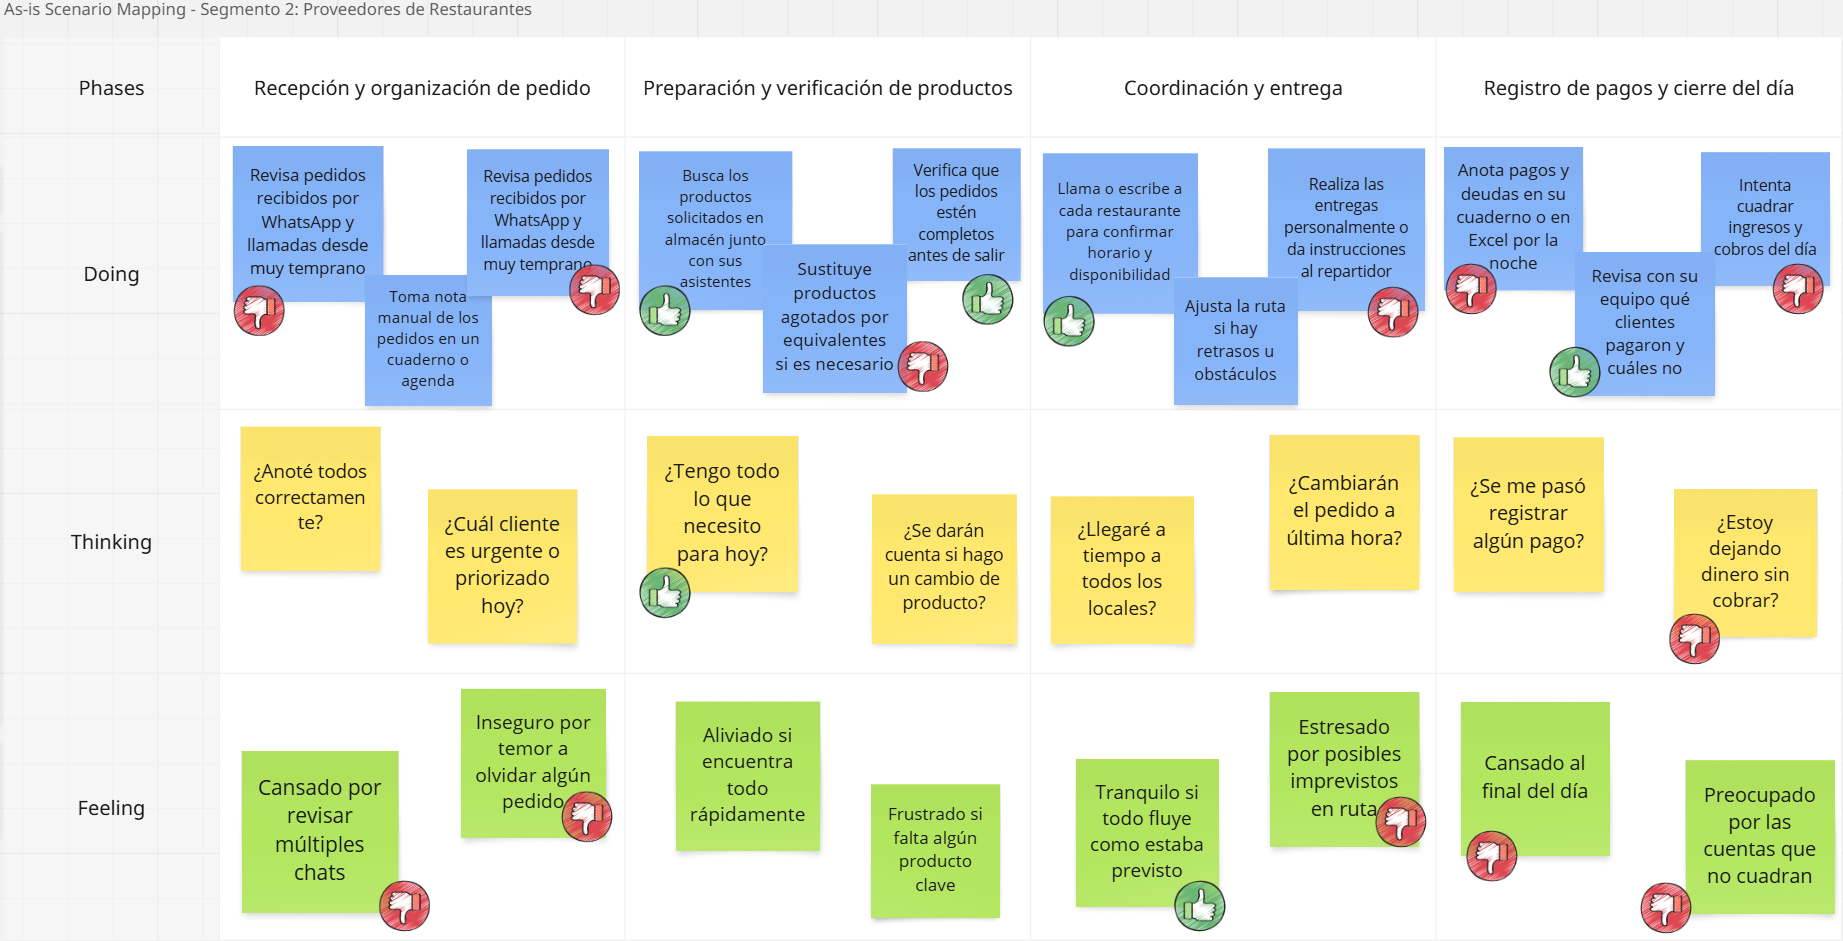
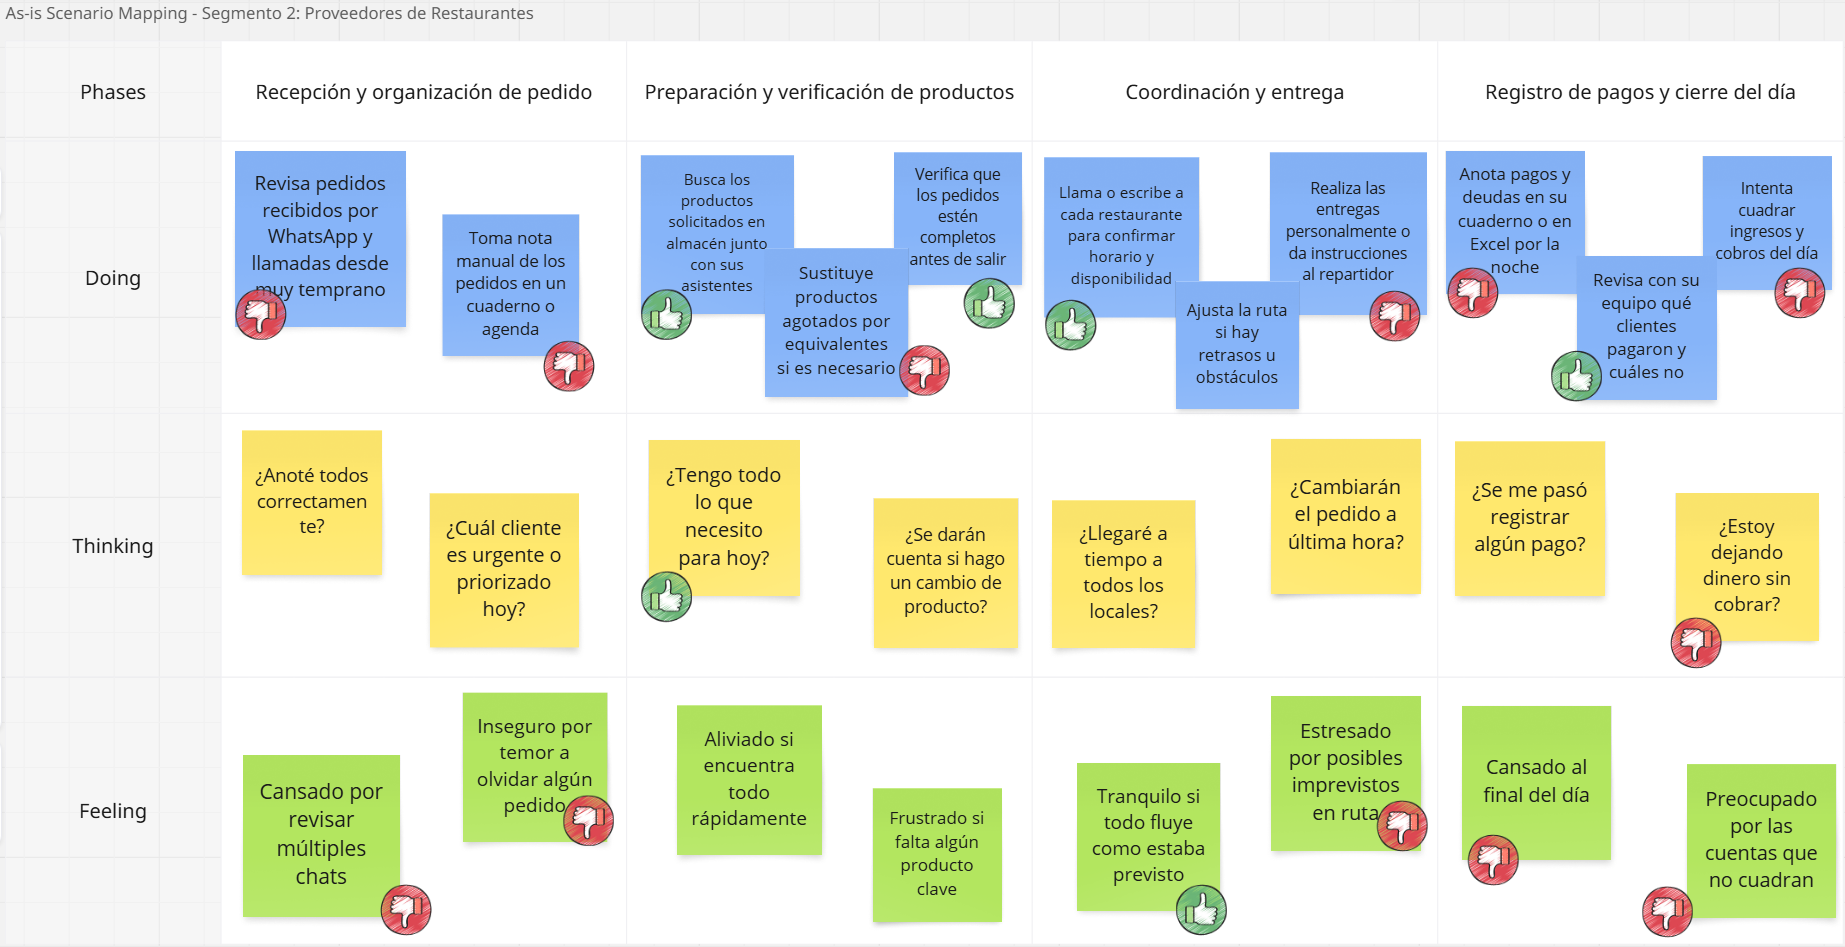
fix(cap2-as-is-scenario-mapping): add subtitle and fix repeated post-it

diff --git a/cap2-requirements-elicitation-and-analysis.md b/cap2-requirements-elicitation-and-analysis.md
@@ -410,9 +410,13 @@ En esta sección se presentan los User Journey Maps (As-Is) de los segmentos rep
 
 ### 2.3.5 As-is Scenario Mapping
 
+**Segmento Objetivo 1:** Dueños de Restaurantes
+
 El siguiente escenario As-Is fue desarrollado a partir de entrevistas y análisis de comportamiento del perfil de Carolina Rivas. Se identificaron las principales fases que conforman su flujo de trabajo diario como administradora de un restaurante
 
 ![Foto de As-Is Scenario Mapping Sector 1](assets/images/as-is_sector1.png)
+
+**Segmento objetivo 2:** Proveedores de Restaurantes
 
 El siguiente escenario As-Is fue desarrollado a partir de entrevistas y análisis del comportamiento del perfil de Jorge Torres. Se identificaron las principales fases que conforman su flujo de trabajo diario como proveedor tradicional de abarrotes y bebidas para restaurantes.
 
